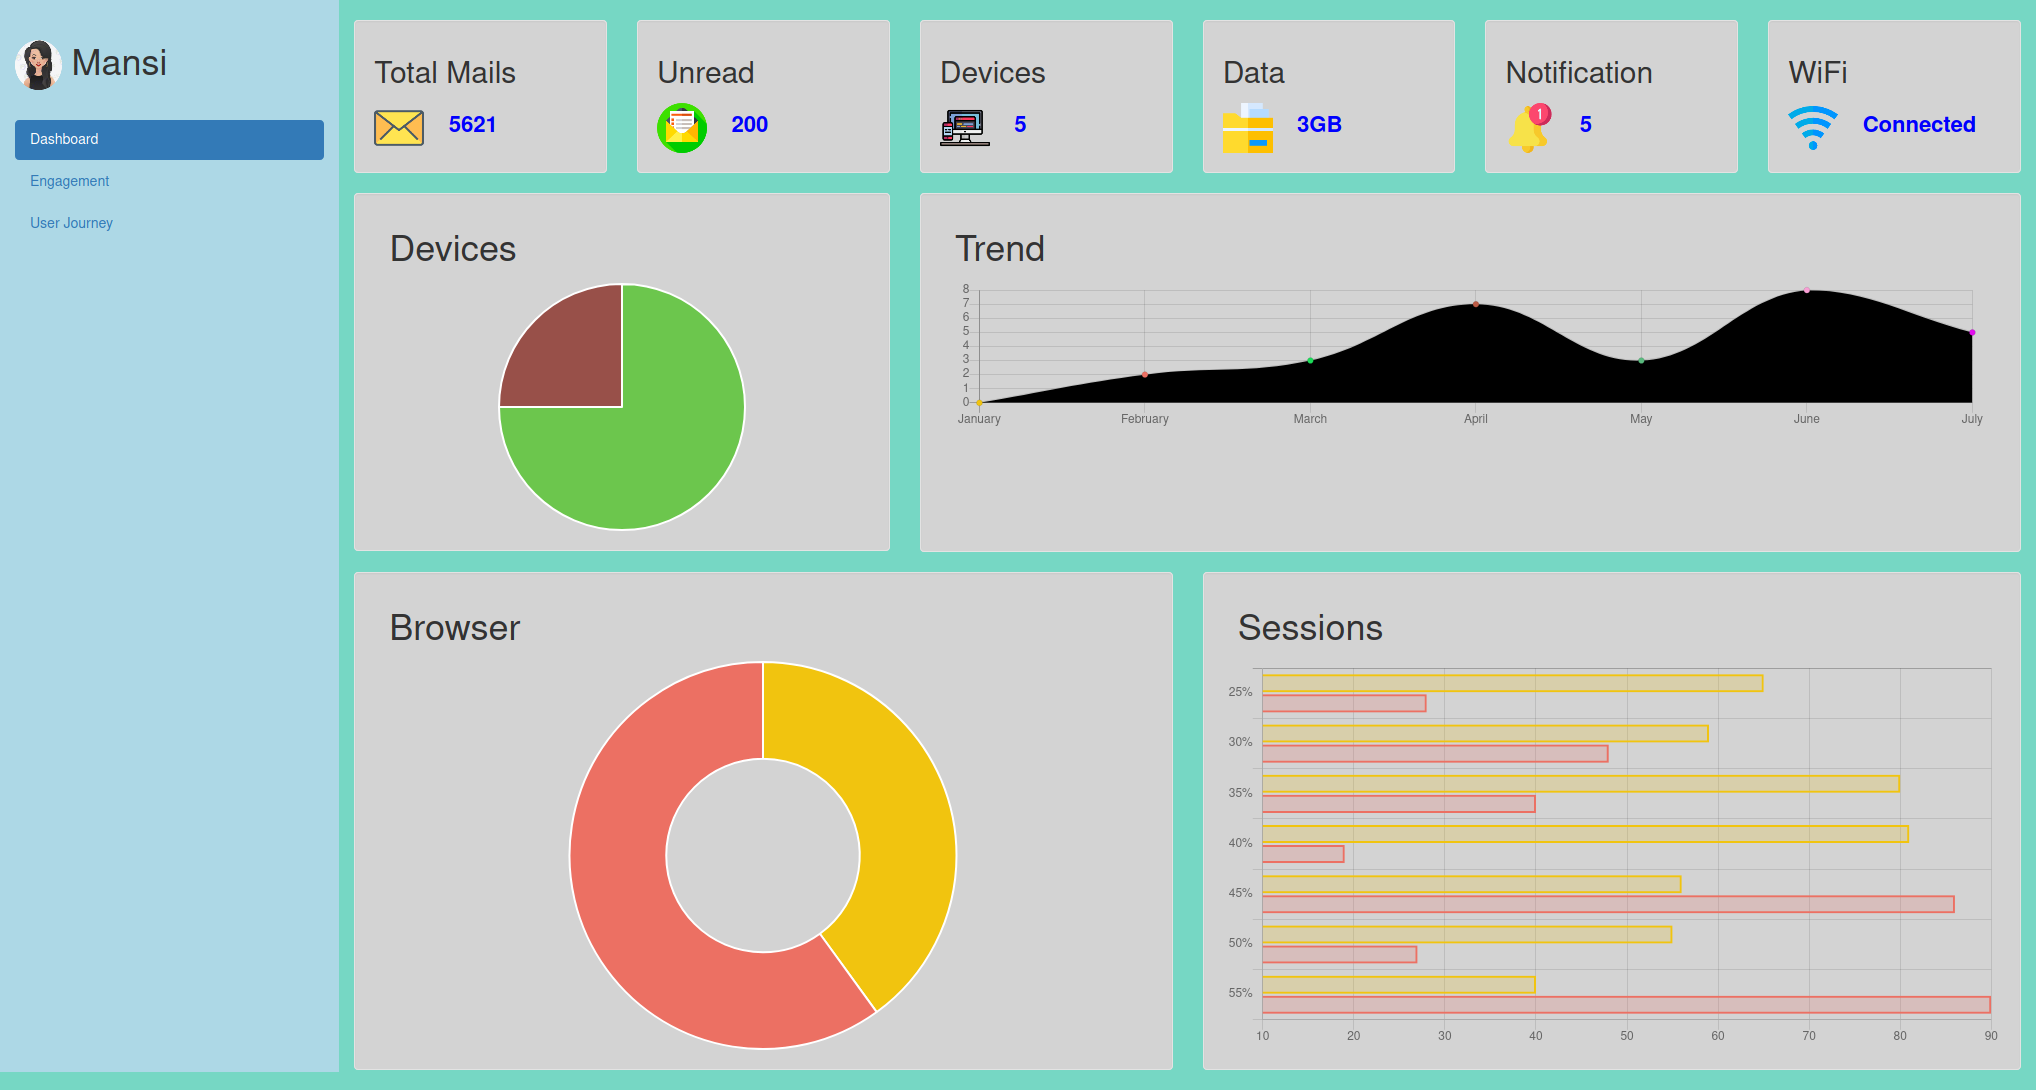
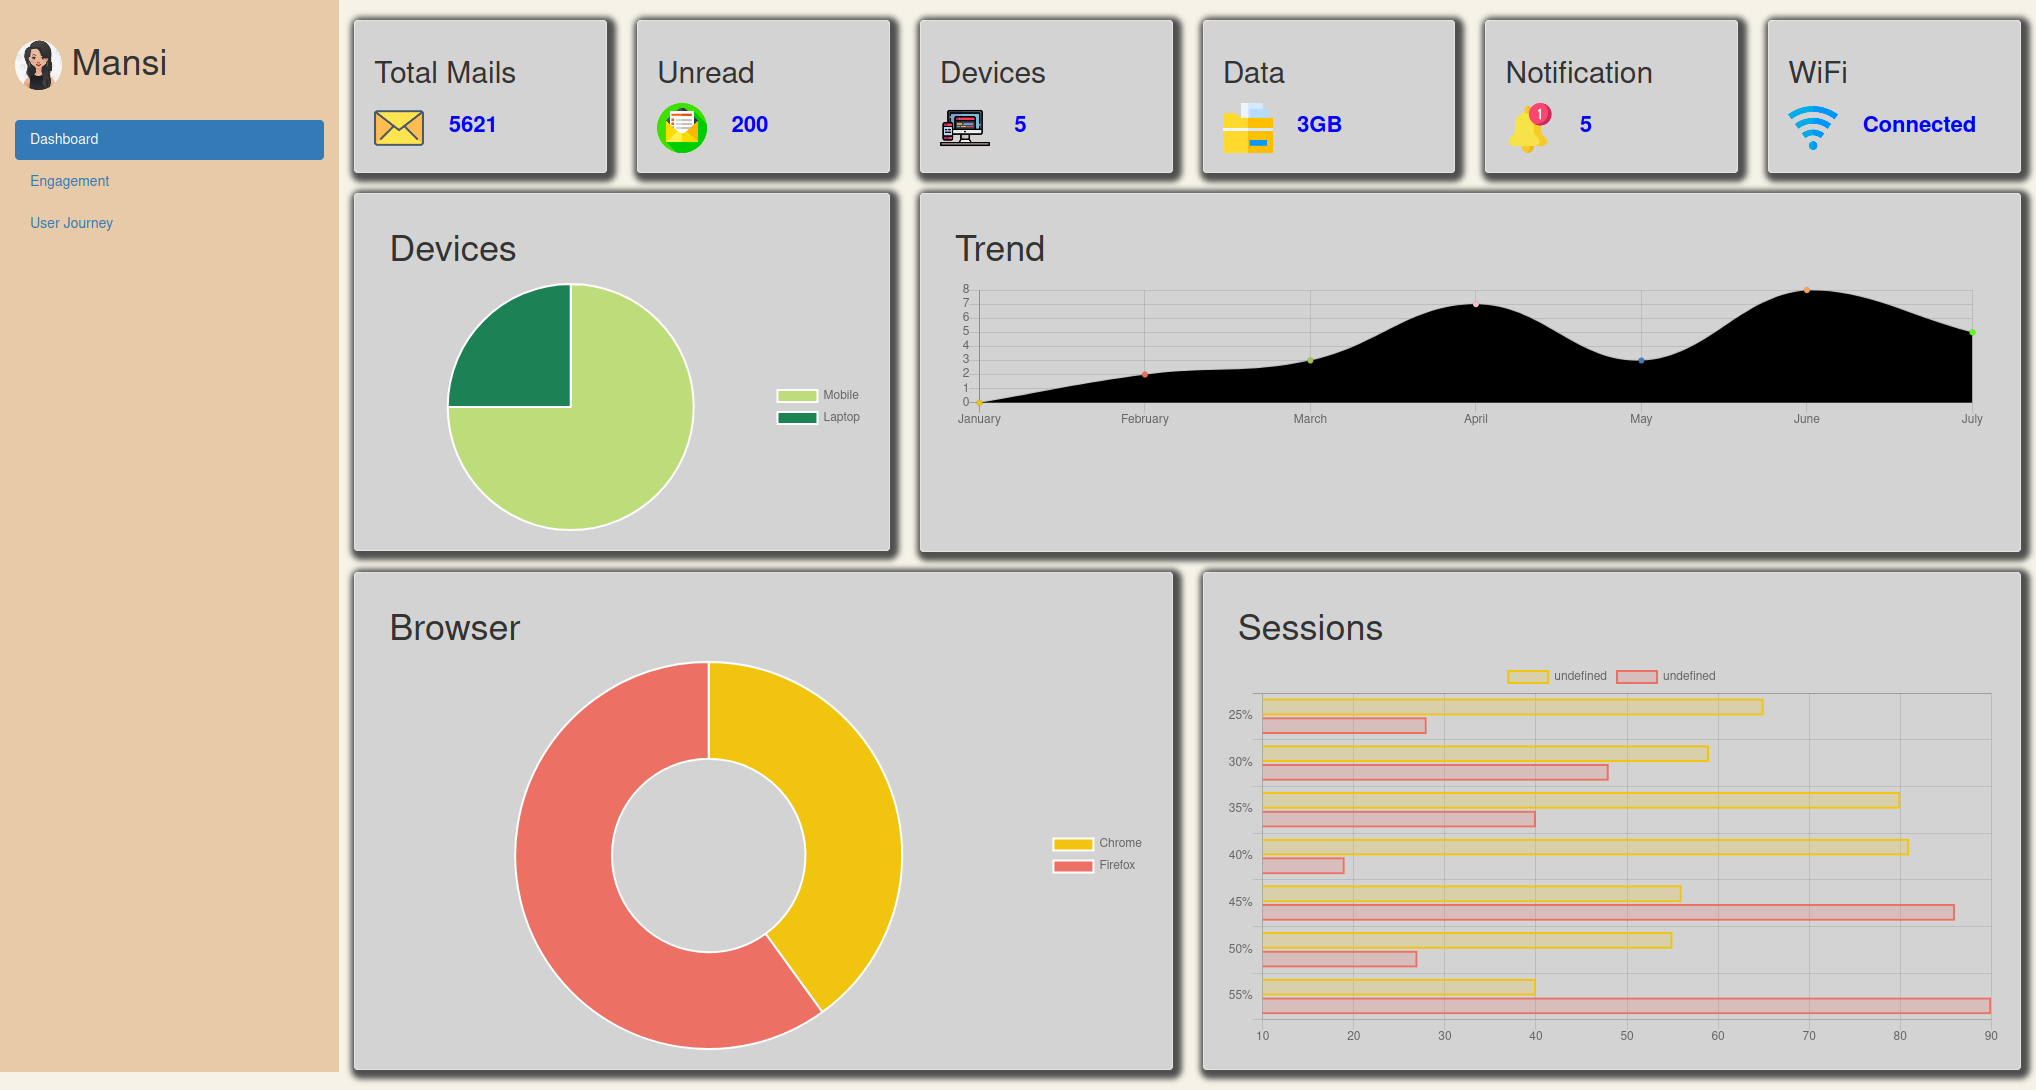
Updated UI and Optimised Code

diff --git a/index.html b/index.html
@@ -1,8 +1,7 @@
 <!DOCTYPE html>
 <html lang="en">
-
 <head>
-  <title>Bootstrap Example</title>
+  <title>Angular Analytics Dashboard</title>
   <meta charset="utf-8" />
   <meta name="viewport" content="width=device-width, initial-scale=1" />
   <link rel="stylesheet" href="https://maxcdn.bootstrapcdn.com/bootstrap/3.4.1/css/bootstrap.min.css" />
@@ -15,6 +14,7 @@
 </head>
 
 <body>
+  <!--Navigation bar on mobiles-->
   <nav class="navbar navbar-inverse visible-xs">
     <div class="container-fluid">
       <div class="navbar-header">
@@ -37,10 +37,11 @@
 
   <div class="container-fluid">
     <div id="wrapper" class="row content" ng-app="App">
+      <!--Navigation bar on devices whose width is equal to or more than 768px -->
       <div class="col-sm-2 sidenav hidden-xs">
         <br>
         <h1>
-          <span><img style="height: 50px" src="/userimg.png" /></span> Mansi
+          <span><img style="height: 50px" src="/assets/userimg.png" /></span> Mansi
         </h1>
         <br>
         <ul class="nav nav-pills nav-stacked">
@@ -52,50 +53,49 @@
         </ul>
         <br />
       </div>
-      <br>
-
+      <!--Dashboard Content-->
       <div ng-controller="chartsCtrl as vt" class="col-sm-10" id="analyticsContainer">
         <div class="row">
-
           <div class="col-sm-2">
             <div class="well">
-              <h2>Total Mails</h2><img style="height:50px" src="/email.png" /><span
+              <h2>Total Mails</h2><img style="height:50px" src="/assets/email.png" /><span
                 style="color:blue;font-weight: bold;font-size: 22px;"> &nbsp&nbsp&nbsp5621
             </div>
           </div>
           <div class="col-sm-2">
             <div class="well">
-              <h2>Unread</h2><img style="height:50px" src="/unread.png" /><span
+              <h2>Unread</h2><img style="height:50px" src="/assets/unread.png" /><span
                 style="color:blue;font-weight: bold;font-size: 22px;"> &nbsp&nbsp&nbsp200
             </div>
           </div>
           <div class="col-sm-2">
             <div class="well">
-              <h2>Devices</h2><img style="height:50px" src="/device.png" /><span
+              <h2>Devices</h2><img style="height:50px" src="/assets/device.png" /><span
                 style="color:blue;font-weight: bold;font-size: 22px;"> &nbsp&nbsp&nbsp5
             </div>
           </div>
           <div class="col-sm-2">
             <div class="well">
-              <h2> Data</h2><img style="height:50px" src="/folder.png" /><span
+              <h2> Data</h2><img style="height:50px" src="/assets/folder.png" /><span
                 style="color:blue;font-weight: bold;font-size: 22px;"> &nbsp&nbsp&nbsp3GB
             </div>
           </div>
           <div class="col-sm-2">
             <div class="well">
-              <h2>Notification</h2><img style="height:50px" src="/notification.png" /><span
+              <h2>Notification</h2><img style="height:50px" src="/assets/notification.png" /><span
                 style="color:blue;font-weight: bold;font-size: 22px;"> &nbsp&nbsp&nbsp5
             </div>
           </div>
           <div class="col-sm-2">
             <div class="well">
-              <h2>WiFi</h2><img style="height:50px" src="/wifi.png" /><span
+              <h2>WiFi</h2><img style="height:50px" src="/assets/wifi.png" /><span
                 style="color:blue;font-weight: bold;font-size: 22px;"> &nbsp&nbsp&nbspConnected
             </div>
           </div>
-
         </div>
+
         <div class="row">
+          <!--Pie Chart-->
           <div class="col-sm-4">
             <div id="pichart" class="well">
               <div class="col-sm-12">
@@ -109,6 +109,7 @@
               <div class="col-sm-3"></div>
             </div>
           </div>
+          <!--Line Chart-->
           <div class="col-sm-8">
             <div id="linechart" class="well">
               <div class="col-sm-12">
@@ -124,6 +125,7 @@
           </div>
         </div>
         <div class="row">
+          <!--Donut Chart-->
           <div class="col-sm-6">
             <div class="well">
               <div class="col-sm-12">
@@ -135,6 +137,7 @@
               </canvas>
             </div>
           </div>
+          <!--Horizontal Graph-->
           <div class="col-sm-6">
             <div class="well">
               <div class="col-sm-12">
@@ -146,8 +149,7 @@
             </div>
           </div>
         </div>
-        <div class="row"></div>
-      </div>
+       </div>
     </div>
   </div>
   <script>
@@ -169,5 +171,4 @@
   </script>
   <script src="/app.js"></script>
 </body>
-
 </html>

diff --git a/styles.css b/styles.css
@@ -1,31 +1,36 @@
    /* Set gray background color and 100% height */
    .sidenav {
-    background-color: #E7CBA9;
-    height: 100%;
-  }
+     background-color: #E7CBA9;
+     height: 100%;
+   }
 
-  Body {
-    background-color: #F5F3E7;
-  }
+   Body {
+     background-color: #F5F3E7;
+   }
 
-  .well {
-    background-color: lightgrey !important;
-    height: 100%;
-    -webkit-box-shadow: 3px 3px 5px 6px #505050;  /* Safari 3-4, iOS 4.0.2 - 4.2, Android 2.3+ */
-    -moz-box-shadow:    3px 3px 5px 6px #505050;  /* Firefox 3.5 - 3.6 */
-    box-shadow:         3px 3px 5px 6px #505050;  /* Opera 10.5, IE 9, Firefox 4+, Chrome 6+, iOS 5 */
-  
-  }
+   .well {
+     background-color: lightgrey !important;
+     height: 100%;
+     -webkit-box-shadow: 3px 3px 5px 6px #505050;
+     /* Safari 3-4, iOS 4.0.2 - 4.2, Android 2.3+ */
+     -moz-box-shadow: 3px 3px 5px 6px #505050;
+     /* Firefox 3.5 - 3.6 */
+     box-shadow: 3px 3px 5px 6px #505050;
+     /* Opera 10.5, IE 9, Firefox 4+, Chrome 6+, iOS 5 */
 
-  /* On small screens, set height to 'auto' for the grid */
-  @media screen and (max-width: 767px) {
-    .row.content {
-      height: auto;
-    }
-    .navbar{
-        margin-bottom: 0 !important;
-    }
-    .SideOptions {
-      color: black !important;
-    }
-  }
+   }
+
+   /* On small screens, set height to 'auto' for the grid */
+   @media screen and (max-width: 767px) {
+     .row.content {
+       height: auto;
+     }
+
+     .navbar {
+       margin-bottom: 0 !important;
+     }
+
+     .SideOptions {
+       color: black !important;
+     }
+   }

diff --git a/app.js b/app.js
@@ -12,17 +12,12 @@ app.controller("chartsCtrl", function ($http) {
     "June",
     "July",
   ];
-
   vt.chartLineSeries = ["New Users", "Global Quizz Results in %"];
-
   vt.chartLineCharts = [0, 2, 3, 7, 3, 8, 5];
-
   vt.chartLineOptions = {
     maintainAspectRatio: false,
     responsive: true,
-    
   };
-
   vt.chartLineColours = ["#f1c40f", "#ec7063"];
 
   // Pie Chart
@@ -31,12 +26,11 @@ app.controller("chartsCtrl", function ($http) {
   vt.chartPieOptions = {
     legend: {
       display: true,
-      position: 'right'
+      position: "right",
     },
     maintainAspectRatio: true,
     responsive: true,
   };
-  
   vt.chartPieColours = [" #2ecc71 ", " #5dade2"];
 
   // Donut Chart
@@ -45,24 +39,26 @@ app.controller("chartsCtrl", function ($http) {
   vt.chartDonutOptions = {
     legend: {
       display: true,
-      position: 'right'
+      position: "right",
     },
     maintainAspectRatio: true,
     responsive: true,
   };
   vt.chartDonutColours = ["#f1c40f", "#ec7063"];
-// Horizontal Chart
+
+  // Horizontal Chart
   vt.horChartlabels = ["25%", "30%", "35%", "40%", "45%", "50%", "55%"];
   vt.horChartseries = ["Series A", "Series B"];
   vt.horChartColours = ["#f1c40f", "#ec7063"];
   vt.horChartOptions = {
     legend: {
       display: true,
-      position: 'top'
+      position: "top",
     },
-  }
+  };
   vt.horChartdata = [
     [65, 59, 80, 81, 56, 55, 40],
     [28, 48, 40, 19, 86, 27, 90],
   ];
+
 });
